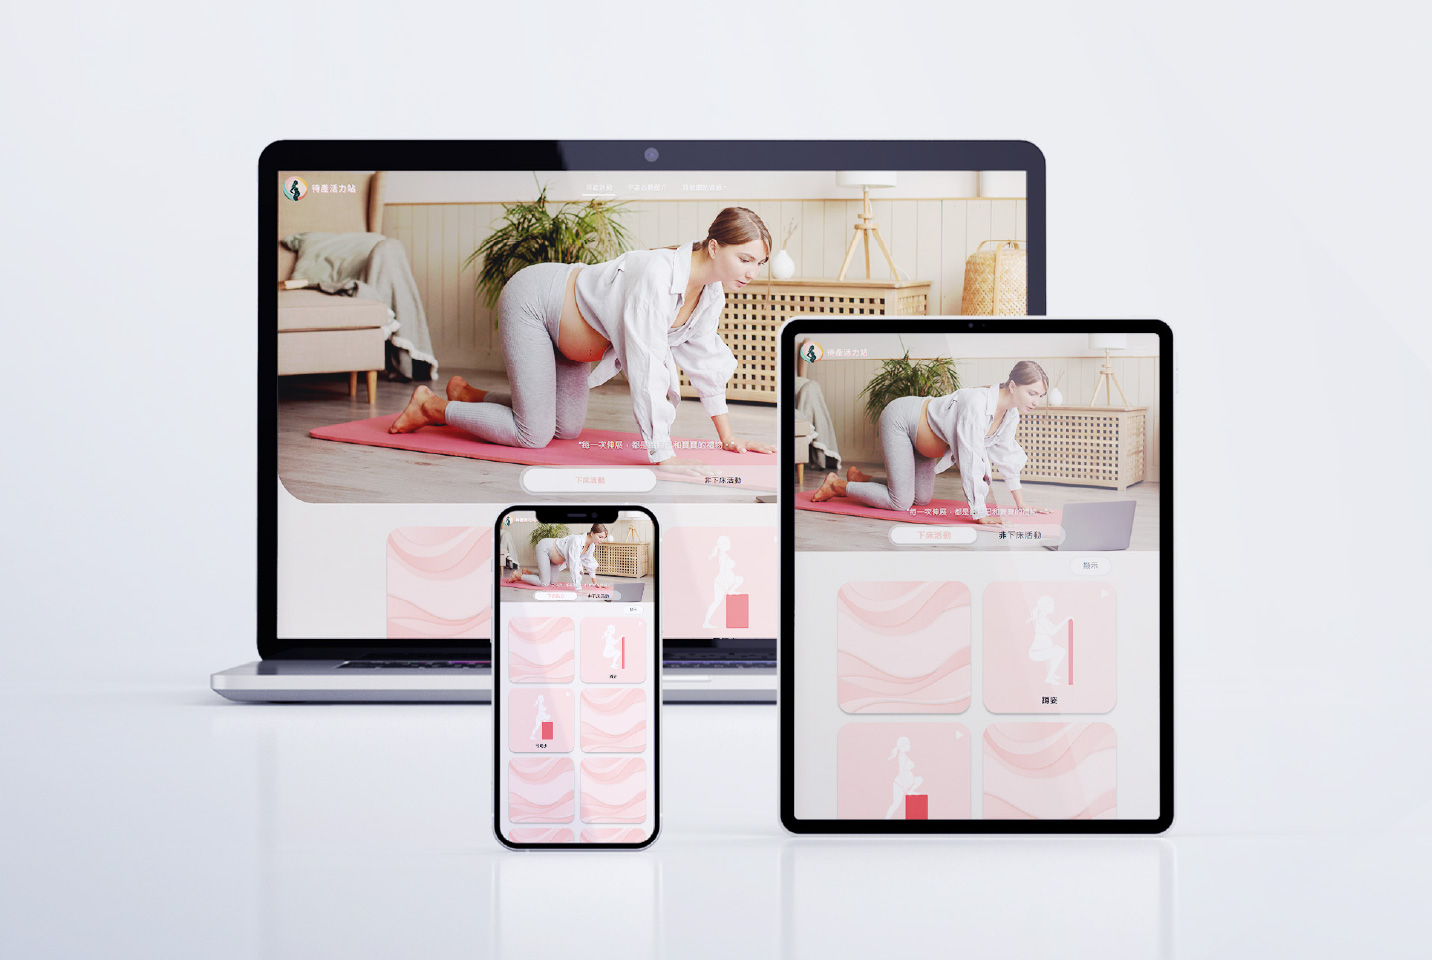
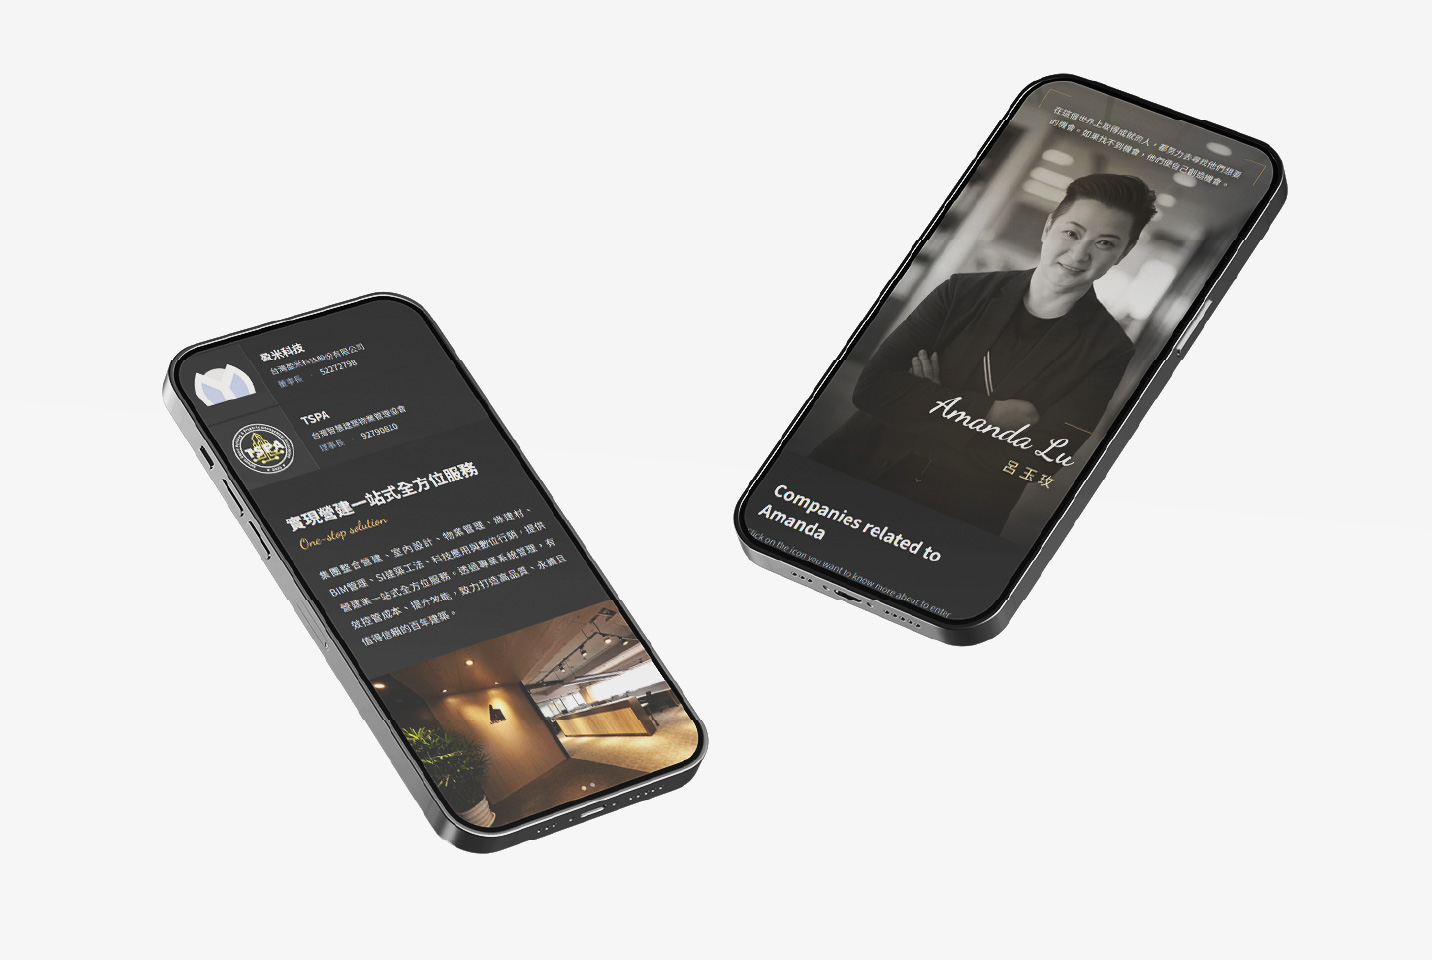
feat: 更新專案封面圖與 ProjectsCom

diff --git a/src/components/ProjectsCom.vue b/src/components/ProjectsCom.vue
@@ -58,12 +58,12 @@ const projects = [
     link: 'https://twyingmi.com/',
   },
   {
-    title: '待產活力站',
-    tag: ['Web Development', 'UI/UX Design', 'Vue3', 'Bootstrap', 'SCSS', 'Figma'],
+    title: '呂玉玫 電子名片',
+    tag: ['Web Development', 'UI/UX Design', 'Vue3', 'Tailwind CSS', 'TypeScript'],
     summary:
-      '為待產婦女設計的互動式網站，透過互動小遊戲與示範影片，協助使用者理解孕期運動的重要性並探索合適的運動項目。',
+      '打造個人品牌電子名片，整合六間關聯企業、協會資訊與聯絡方式，以深色簡約的設計呈現專業沉穩的視覺風格。',
     cover: '/imgs/projects/5/0.jpg',
-    link: 'https://www.readysetbaby.com.tw/',
+    link: 'https://storage.googleapis.com/yingmigcs/amanda_business_card/index.html',
   },
   {
     title: '松華選材系統',
@@ -247,7 +247,12 @@ const projects = [
         <div v-for="(project, idx) in projects" :key="idx" class="project-card mt-5 flex flex-col">
           <!-- 作品封面 -->
           <div class="w-full overflow-hidden rounded-xl bg-gray-100">
-            <img :src="project.cover" :alt="project.title" loading="lazy" class="w-full rounded-xl object-cover" />
+            <img
+              :src="project.cover"
+              :alt="project.title"
+              loading="lazy"
+              class="w-full rounded-xl object-cover"
+            />
           </div>
 
           <!-- 文字內容 -->
@@ -322,7 +327,10 @@ const projects = [
               <font-awesome-icon :icon="['fab', 'youtube']" />
             </a>
           </div>
-          <button @click="closeModal" class="cursor-pointer text-xl text-white/50 hover:text-white/100">
+          <button
+            @click="closeModal"
+            class="cursor-pointer text-xl text-white/50 hover:text-white/100"
+          >
             ✕
           </button>
         </div>
@@ -337,12 +345,14 @@ const projects = [
           @swiper="setMainSwiper"
           @slide-change="onSlideChange"
         >
-          <SwiperSlide
-            v-for="img in selectedProject?.images"
-            :key="img.src"
-          >
+          <SwiperSlide v-for="img in selectedProject?.images" :key="img.src">
             <div class="flex h-full flex-col items-center justify-center px-12">
-              <img :src="img.src" :alt="img.title" loading="lazy" class="max-h-[65vh] max-w-full object-contain" />
+              <img
+                :src="img.src"
+                :alt="img.title"
+                loading="lazy"
+                class="max-h-[65vh] max-w-full object-contain"
+              />
               <p class="mt-2 text-center text-sm text-white/70">{{ img.title }}</p>
             </div>
           </SwiperSlide>
@@ -357,7 +367,11 @@ const projects = [
             :alt="img.title"
             loading="lazy"
             class="h-20 w-28 flex-shrink-0 cursor-pointer rounded-md border-2 object-cover transition-all duration-200"
-            :class="activeIndex === i ? 'scale-105 border-[#00e3e7] opacity-100' : 'border-transparent opacity-60 hover:opacity-90'"
+            :class="
+              activeIndex === i
+                ? 'scale-105 border-[#00e3e7] opacity-100'
+                : 'border-transparent opacity-60 hover:opacity-90'
+            "
             @click="goToSlide(i)"
           />
         </div>
